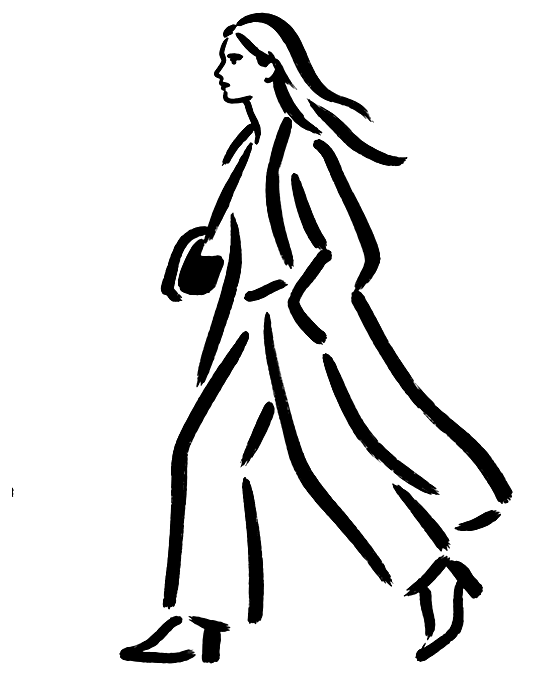
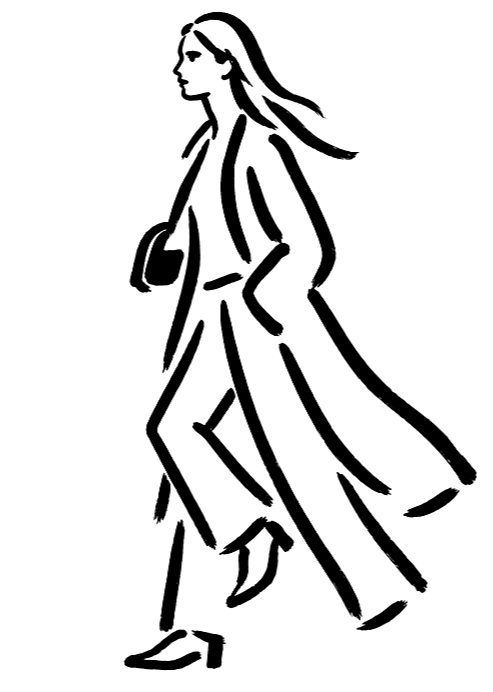
LATITUDE lab: walk cycle redrawn (left forward, passing, right forward, passing); skip drawing, loop the 4 frames

Changed region(s): [[0.213, 0.0, 0.9736, 0.9825]]

diff --git a/components/latitude/DrawWalk.tsx b/components/latitude/DrawWalk.tsx
@@ -6,10 +6,11 @@ import { useEffect, useState } from 'react';
 // 2) 描き終わったら、AIに静止画で描かせた歩く4コマ（f1〜f4）を順に切り替えて、その場で歩かせる
 type Strokes = { w: number; h: number; stroke: number; paths: { d: string; len: number }[] };
 
-export function DrawWalk({ base, speed = 1100, fps = 6 }: { base: string; speed?: number; fps?: number }) {
+// draw=false：描く動きを省き、最初から4コマを繰り返すだけ（2026-10-22 ユーザー指定）
+export function DrawWalk({ base, speed = 1100, fps = 6, draw = true }: { base: string; speed?: number; fps?: number; draw?: boolean }) {
   const [s, setS] = useState<Strokes | null>(null);
   const [run, setRun] = useState(0);
-  const [walk, setWalk] = useState(false);
+  const [walk, setWalk] = useState(!draw);
   const [frame, setFrame] = useState(0);
   useEffect(() => { fetch(`${base}/strokes.json`).then((r) => r.json()).then(setS); }, [base]);
   // 線の長さに比例した時間で、上から順に描く（speed＝1秒に描く長さ）
@@ -21,11 +22,11 @@ export function DrawWalk({ base, speed = 1100, fps = 6 }: { base: string; speed?
   }, []);
   const total = timed.length ? timed[timed.length - 1].start + timed[timed.length - 1].dur : 0;
   useEffect(() => {
-    if (!s) return;
+    if (!s || !draw) return;
     setWalk(false);
     const t = window.setTimeout(() => setWalk(true), (total + 0.3) * 1000);
     return () => window.clearTimeout(t);
-  }, [s, run, total]);
+  }, [s, run, total, draw]);
   useEffect(() => {
     if (!walk) return;
     const t = window.setInterval(() => setFrame((f) => (f + 1) % 4), 1000 / fps);
@@ -53,7 +54,7 @@ export function DrawWalk({ base, speed = 1100, fps = 6 }: { base: string; speed?
         <img src={`${base}/f${frame + 1}.png`} alt="" className="absolute inset-0 h-full w-full" />
       )}
       {[2, 3, 4].map((n) => <link key={n} rel="preload" as="image" href={`${base}/f${n}.png`} />)}
-      <button type="button" onClick={() => { setFrame(0); setRun(run + 1); }} className="absolute -bottom-8 right-0 text-[10px] uppercase tracking-[0.3em] text-neutral-500">Replay</button>
+      {draw && <button type="button" onClick={() => { setFrame(0); setRun(run + 1); }} className="absolute -bottom-8 right-0 text-[10px] uppercase tracking-[0.3em] text-neutral-500">Replay</button>}
     </div>
   );
 }

diff --git a/app/[locale]/latitude/lab/draw-walk/page.tsx b/app/[locale]/latitude/lab/draw-walk/page.tsx
@@ -5,15 +5,15 @@ import { DrawWalk } from '@/components/latitude/DrawWalk';
 export const metadata: Metadata = { title: 'LATITUDE lab', robots: { index: false, follow: false } };
 
 export default function DrawWalkLab() {
-  // 地図のページ（1080×1440）の上の、歩く絵の場所（x600 y640、高さ587。絵は 550×684 の比）
-  const h = 587, w = Math.round((587 * 550) / 684); // 4コマの枠 550×684
+  // 地図のページ（1080×1440）の上の、歩く絵の場所（x600 y640、高さ587。絵は 493×692 の比）
+  const h = 587, w = Math.round((587 * 493) / 692); // 4コマの枠 493×692
   return (
     <div className="flex min-h-screen items-center justify-center p-4" style={{ background: '#0c0c0b' }}>
       <div className="relative" style={{ aspectRatio: '3 / 4', width: 'min(100vw - 2rem, 75svh)' }}>
         {/* eslint-disable-next-line @next/next/no-img-element */}
         <img src="/latitude/london/pages/03.jpg" alt="" className="absolute inset-0 h-full w-full object-cover" />
         <div className="absolute" style={{ left: `${(600 / 1080) * 100}%`, top: `${(640 / 1440) * 100}%`, width: `${(w / 1080) * 100}%`, height: `${(h / 1440) * 100}%` }}>
-          <DrawWalk base="/latitude/london/drawwalk" />
+          <DrawWalk base="/latitude/london/drawwalk" draw={false} />
         </div>
       </div>
     </div>
